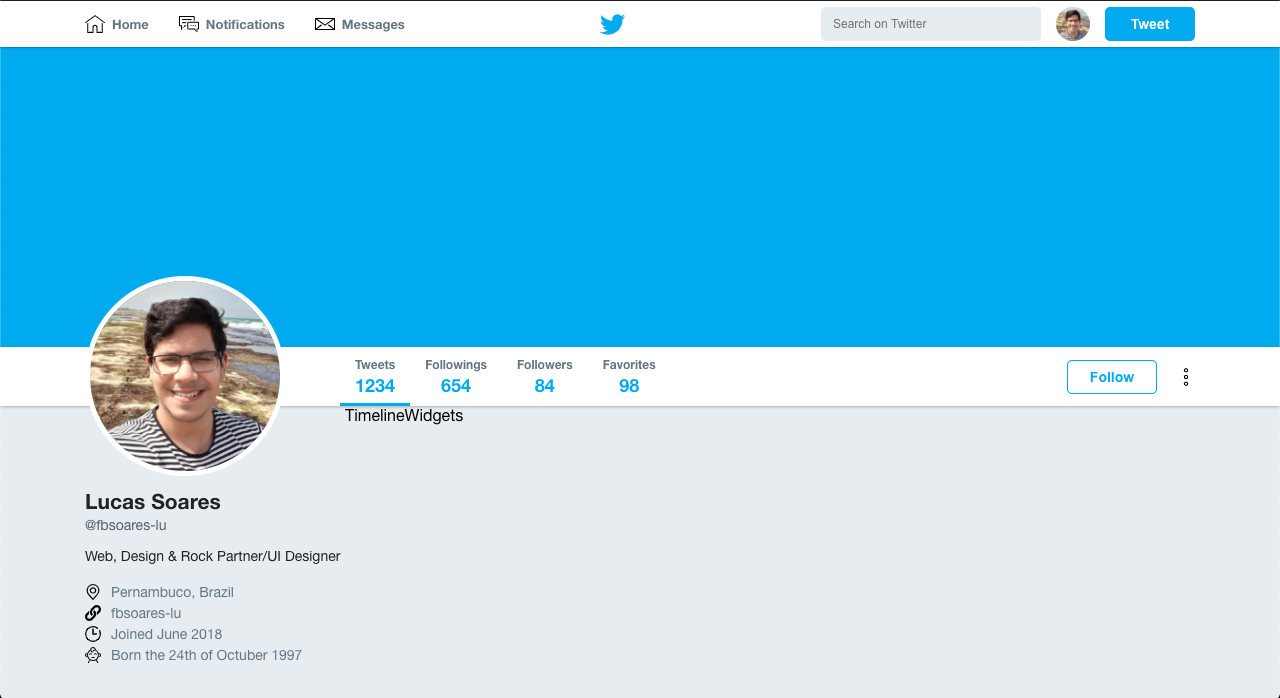
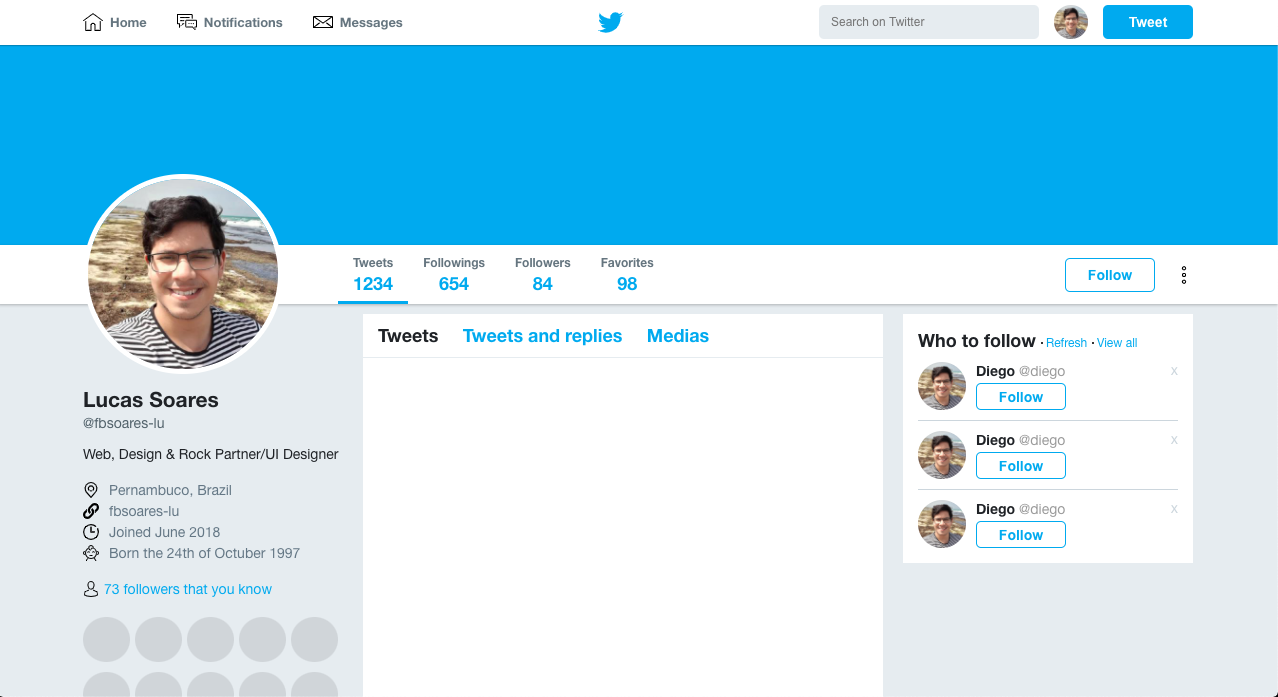
Create aside e selection

diff --git a/clone-twitter/styles.css b/clone-twitter/styles.css
@@ -102,7 +102,7 @@ header#main-header div.side button {
 }
 
 div.banner {
-    height: 300px;
+    height: 200px;
     width: 100%;
     background: #21a9f5;
 }
@@ -221,7 +221,7 @@ div.wrapper-content aside.profile ul {
     list-style: none;
 }
 
-div.wrapper-content aside.profile li {
+div.wrapper-content aside.profile ul.list li {
     font-size: 14px;
     color: #657786;
 
@@ -230,10 +230,206 @@ div.wrapper-content aside.profile li {
     margin-top: 5px;
 }
 
-div.wrapper-content aside.profile li:first-child {
+div.wrapper-content aside.profile ul.list li:first-child {
     margin: 0;
 }
 
-div.wrapper-content aside.profile img {
+div.wrapper-content aside.profile ul.list li img {
     margin-right: 10px;
+}
+
+div.wrapper-content aside.profile .widget {
+    margin-top: 20px;
+}
+
+div.wrapper-content aside.profile .widget strong {
+    font-weight: normal;
+    color: #21a9f5;
+    font-size: 14px;
+    
+    display: flex;
+    align-items: center;
+}
+
+div.wrapper-content aside.profile .widget strong img {
+    margin-right: 5px;
+}
+
+div.wrapper-content aside.profile .followers ul {
+    list-style: none;
+    display: flex;
+    flex-wrap: wrap;
+}
+
+div.wrapper-content aside.profile .followers ul li {
+    width: 45px;
+    height: 45px;
+    background: #D0D5D9;
+    border-radius: 50%;
+    flex-shrink: 0;
+    flex-grow: 1;
+    margin-right: 5px;
+    margin: 0 5px 10px 0;
+}
+
+div.wrapper-content aside.profile .images ul {
+    list-style: none;
+    display: flex;
+    flex-wrap: wrap;
+}
+
+div.wrapper-content aside.profile .images ul li {
+    width: 80px;
+    height: 80px;
+    background: #D0D5D9;
+    border-radius: 8px;
+    flex-shrink: 0;
+    flex-grow: 1;
+    margin-right: 5px;
+    margin: 0 5px 10px 0;
+}
+
+div.wrapper-content .timeline {
+    flex: 1;
+    background: #FFF;
+    margin: 10px 20px;
+}
+
+div.wrapper-content .timeline nav {
+    border-bottom: 1px solid #E6ECF0;
+    padding: 10px 15px;
+}
+
+div.wrapper-content .timeline a {
+    text-decoration: none;
+    color: #21a9f5;
+    font-size: 18px;
+    font-weight: bold;
+    margin-left: 20px;
+}
+
+div.wrapper-content .timeline a:first-child {
+    margin: 0px;
+}
+
+div.wrapper-content .timeline a.active {
+    color: #1F2226;
+}
+
+
+
+
+
+
+
+
+
+div.wrapper-content aside.widgets {
+    width: 290px;
+    margin-top: 10px;
+}
+
+div.wrapper-content aside.widgets .widget {
+    background: #FFF;
+    padding: 15px;
+}
+
+div.wrapper-content aside.widgets .widget .title {
+    display: flex;
+    align-items: baseline;
+}
+
+div.wrapper-content aside.widgets .widget .title strong {
+    font-size: 18px;
+    color: #1F2226;
+}
+
+div.wrapper-content aside.widgets .widget .title a {
+    color: #21a9f5;
+    font-size: 12px;
+    text-decoration: none;
+    position: relative;
+    padding-left: 10px;
+}
+
+div.wrapper-content aside.widgets .widget .title a::before {
+    content: '';
+    width: 2px;
+    height: 2px;
+    border-radius: 50%;
+    margin-left: 5px;
+    margin-right: 5px;
+    background-color: #000;
+    position: absolute;
+    left: 0;
+    top: 6px;
+}
+
+div.wrapper-content aside.widgets .follow ul{
+    list-style: none;
+    margin-top: 10px;
+}
+
+div.wrapper-content aside.widgets .follow ul li {
+    display: flex;
+    justify-content: space-between;
+    border-bottom: 1px solid #ccd6dd;
+    padding-bottom: 10px;
+    margin-bottom: 10px;
+}
+
+div.wrapper-content aside.widgets .follow ul li:last-child {
+    margin-bottom: 0;
+    padding-bottom: 0;
+    border: 0;
+}
+
+div.wrapper-content aside.widgets .follow ul li .profile {
+    display: flex;
+    align-items: center;
+}
+
+div.wrapper-content aside.widgets .follow ul li .profile img {
+    width: 48px;
+    height: 48px;
+    border-radius: 50%;
+}
+
+div.wrapper-content aside.widgets .follow ul li .profile .info {
+    margin-left: 10px;
+    display: flex;
+    flex-direction: column;
+}
+
+div.wrapper-content aside.widgets .follow ul li .profile .info strong {
+    font-size: 14px;
+    color: #1F2226;
+}
+
+div.wrapper-content aside.widgets .follow ul li .profile .info span {
+    font-weight: normal;
+    color: #9a9a9a;
+}
+
+div.wrapper-content aside.widgets .follow ul li .profile .info button {
+    height: 27px;
+    margin-top: 4px;
+
+    display: flex;
+    align-items: center;
+    justify-content: center;
+
+    width: 90px;
+    font-weight: bold;
+    font-size: 14px;
+    color: #21a9f5;
+    border: 1px solid #21a9f5;
+    border-radius: 5px;
+    background: #FFF;
+}
+
+div.wrapper-content aside.widgets .follow ul li > a {
+    color: #CCD6DD;
+    text-decoration: none;
+    font-size: 14px;
 }

diff --git a/clone-twitter/index.html b/clone-twitter/index.html
@@ -65,15 +65,96 @@
             <span>@fbsoares-lu</span>
             <p>Web, Design & Rock Partner/UI Designer</p>
 
-            <ul>
+            <ul class="list">
                 <li><img src="./assets/place.svg" alt="Place" width="16px"> Pernambuco, Brazil</li>
                 <li><img src="./assets/url.svg" alt="Url" width="16px"> fbsoares-lu</li>
                 <li><img src="./assets/joined.svg" alt="Join" width="16px"> Joined June 2018</li>
                 <li><img src="./assets/born.svg" alt="Born" width="16px"> Born the 24th of Octuber 1997</li>
             </ul>
+            
+            <div class="widget followers">
+                <strong><img src="./assets/user.svg" alt="followers" width="16px"> 73 followers that you know</strong>
+
+                <ul>
+                    <li></li>
+                    <li></li>
+                    <li></li>
+                    <li></li>
+                    <li></li>
+                    <li></li>
+                    <li></li>
+                    <li></li>
+                    <li></li>
+                    <li></li>
+                </ul>
+            </div>
+            <div class="widget images">
+                <strong><img src="./assets/photo.svg" alt="images" width="16px"> 296 Photos and videos</strong>
+
+                <ul>
+                    <li></li>
+                    <li></li>
+                    <li></li>
+                    <li></li>
+                    <li></li>
+                    <li></li>
+                </ul>
+            </div>
         </aside>
-        <section class="timeline">Timeline</section>
-        <aside class="widgets">Widgets</aside>
+        <section class="timeline">
+            <nav>
+                <a class="active" href="">Tweets</a>
+                <a href="">Tweets and replies</a>
+                <a href="">Medias</a>
+            </nav>
+
+            <ul class="tweets">
+                <li></li>
+            </ul>
+        </section>
+
+        <aside class="widgets">
+            <div class="widget follow">
+                <div class="title">
+                    <strong>Who to follow</strong>
+                    <a href="/">Refresh</a>
+                    <a href="/">View all</a>
+                </div>
+
+                <ul>
+                    <li>
+                        <div class="profile">
+                            <img src="./assets/avatar.jpeg" alt="avatar">
+                            <div class="info">
+                                <strong>Diego <span>@diego</span></strong>
+                                <button>Follow</button>
+                            </div>
+                        </div>
+                        <a href="/">x</a>
+                    </li>
+                    <li>
+                        <div class="profile">
+                            <img src="./assets/avatar.jpeg" alt="avatar">
+                            <div class="info">
+                                <strong>Diego <span>@diego</span></strong>
+                                <button>Follow</button>
+                            </div>
+                        </div>
+                        <a href="/">x</a>
+                    </li>
+                    <li>
+                        <div class="profile">
+                            <img src="./assets/avatar.jpeg" alt="avatar">
+                            <div class="info">
+                                <strong>Diego <span>@diego</span></strong>
+                                <button>Follow</button>
+                            </div>
+                        </div>
+                        <a href="/">x</a>
+                    </li>
+                </ul>
+            </div>
+        </aside>
     </div>
 </body>
 </html>
